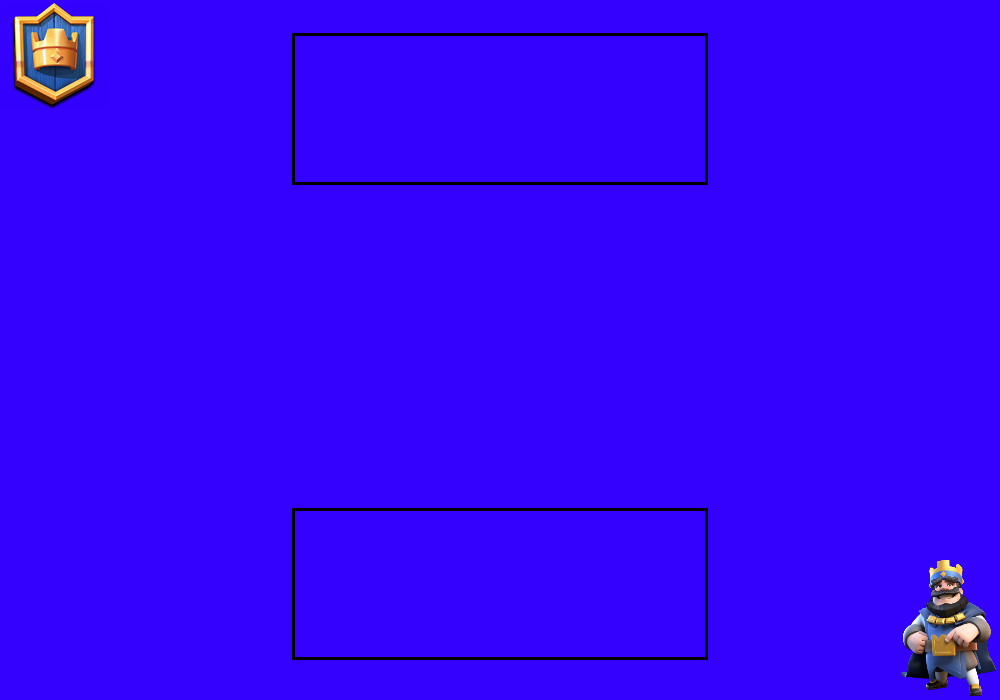
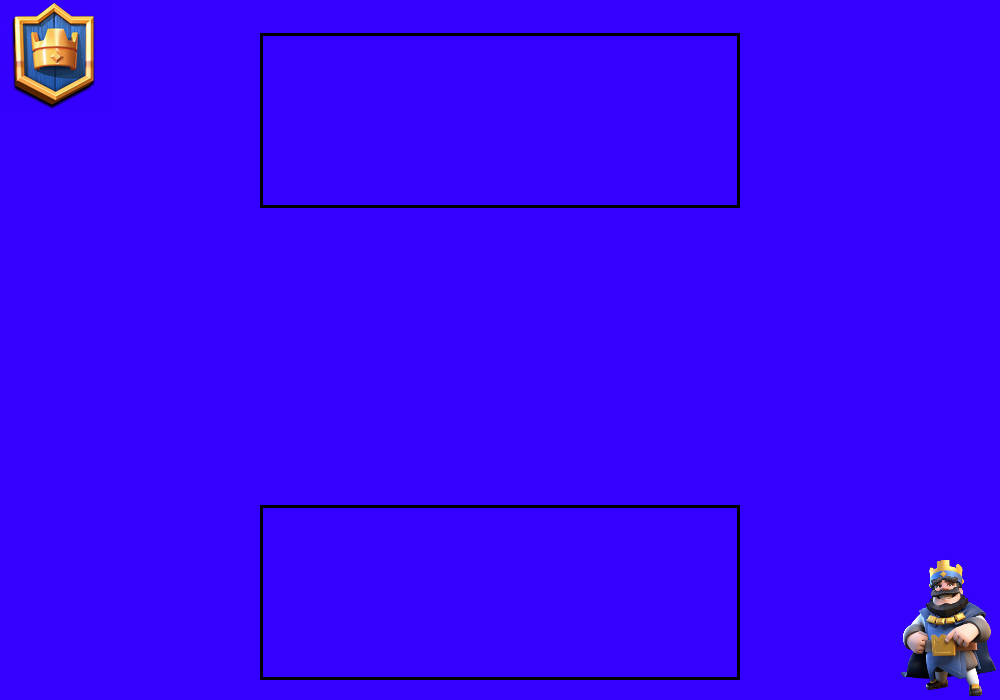
renderizar cartas na mao

diff --git a/src/main/java/scenes/SceneController.java b/src/main/java/scenes/SceneController.java
@@ -117,11 +117,9 @@ public class SceneController {
         if(jogo.acabouJogo()) {
             
         }
-        System.out.println("Jogador atual: " + this.jogo.getNomeJogador());
-        System.out.println("Numero rodada: " + jogo.getRodadas());
-        System.out.println("getCampoJogador1 " + jogo.getCampoJogador1());
-        int initialY = 30;
-        int initialX = 200;
+
+        int initialY = 320;
+        int initialX = 350;
         
         ArrayList<ACartaTropa> mesaJogador1 = jogo.getCampoJogador1();
         for (int i = 0; i < mesaJogador1.size(); i++) {
@@ -134,10 +132,9 @@ public class SceneController {
             initialX = initialX + 90;
         }
 
-        System.out.println("getCampoJogador2 " + jogo.getCampoJogador2());
 
-        int initialY2 = 430;
-        int initialX2 = 200;
+        int initialY2 = 200;
+        int initialX2 = 350;
         ArrayList<ACartaTropa> mesaJogador2 = jogo.getCampoJogador2();
         for (int i = 0; i < mesaJogador2.size(); i++) {
             ImageView img = new ImageView(mesaJogador2.get(i).getDirImage());

diff --git a/src/main/java/backend/GerenciadorDeBaralho.java b/src/main/java/backend/GerenciadorDeBaralho.java
@@ -55,7 +55,7 @@ public class GerenciadorDeBaralho {
         tropas.add(carta);
         carta = new Tanque("Esqueletasso", "tanque", "/scenes/assets/esqueleto-gigante.jpg", 8, 1);
         tropas.add(carta);
-        carta = new Terrestre("Corredor", "terrestre", "/scenes/assets/esqueleto-gigante.jpg", 4, 4);
+        carta = new Terrestre("Corredor", "terrestre", "/scenes/assets/corredor.jpg", 4, 4);
         tropas.add(carta);
         carta = new Terrestre("Cavaleiro", "terrestre", "/scenes/assets/cavaleiro.jpg", 4, 4);
         tropas.add(carta);
